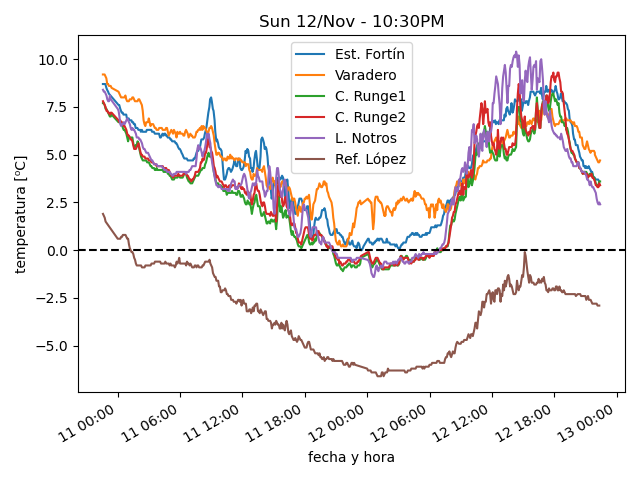
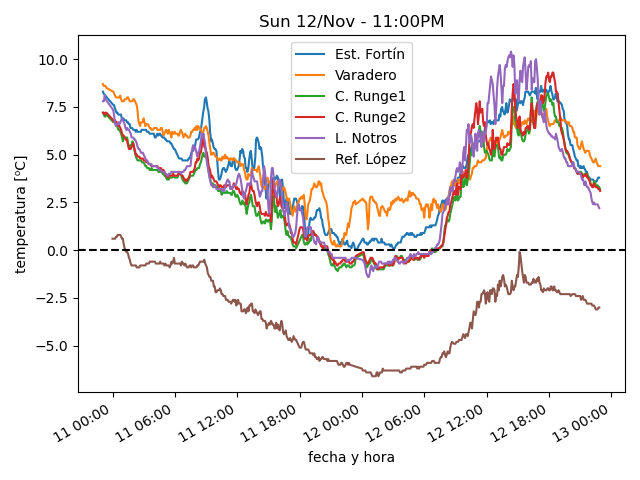
actualiza datos

diff --git a/estaciones/estacion6.html b/estaciones/estacion6.html
@@ -18,32 +18,32 @@
     </tr>
     <tr>
      <td class="stats_data">
-      10:20PM
+      10:50PM
      </td>
     </tr>
     <tr>
      <td class="stats_data">
-      -2.9⁰C
+      -3.0⁰C
      </td>
     </tr>
     <tr>
      <td class="stats_data">
-      -4.3⁰C
+      -4.6⁰C
      </td>
     </tr>
     <tr>
      <td class="stats_data">
-      90.0%
+      89.0%
      </td>
     </tr>
     <tr>
      <td class="stats_data">
-      1023.84hPa
+      1023.71hPa
      </td>
     </tr>
     <tr>
      <td class="stats_data">
-      3.2/12.9 km/hr SE
+      6.4/16.1 km/hr ESE
      </td>
     </tr>
     <tr>
@@ -58,7 +58,7 @@
     </tr>
     <tr>
      <td class="stats_data">
-      902.0 W/m²
+      900.0 W/m²
      </td>
     </tr>
    </tbody>

diff --git a/estaciones/estacion4.html b/estaciones/estacion4.html
@@ -18,32 +18,32 @@
     </tr>
     <tr>
      <td class="stats_data">
-      10:24PM
+      10:54PM
      </td>
     </tr>
     <tr>
      <td class="stats_data">
-      3.4⁰C
+      3.1⁰C
      </td>
     </tr>
     <tr>
      <td class="stats_data">
-      -2.0⁰C
+      -2.5⁰C
      </td>
     </tr>
     <tr>
      <td class="stats_data">
-      67.8%
+      67.2%
      </td>
     </tr>
     <tr>
      <td class="stats_data">
-      1018.22hPa
+      1018.02hPa
      </td>
     </tr>
     <tr>
      <td class="stats_data">
-      1.1/2.1 km/hr SSE
+      1.8/3.0 km/hr SSW
      </td>
     </tr>
     <tr>

diff --git a/estaciones/estacion2.html b/estaciones/estacion2.html
@@ -18,32 +18,32 @@
     </tr>
     <tr>
      <td class="stats_data">
-      10:24PM
+      10:54PM
      </td>
     </tr>
     <tr>
      <td class="stats_data">
-      4.7⁰C
+      4.4⁰C
      </td>
     </tr>
     <tr>
      <td class="stats_data">
-      -0.6⁰C
+      -0.4⁰C
      </td>
     </tr>
     <tr>
      <td class="stats_data">
-      68.6%
+      70.9%
      </td>
     </tr>
     <tr>
      <td class="stats_data">
-      1024.11hPa
+      1024.21hPa
      </td>
     </tr>
     <tr>
      <td class="stats_data">
-      12.6/18.2 km/hr W
+      4.8/7.4 km/hr W
      </td>
     </tr>
     <tr>

diff --git a/estaciones/estacion3.html b/estaciones/estacion3.html
@@ -18,32 +18,32 @@
     </tr>
     <tr>
      <td class="stats_data">
-      10:24PM
+      10:54PM
      </td>
     </tr>
     <tr>
      <td class="stats_data">
-      3.6⁰C
+      3.2⁰C
      </td>
     </tr>
     <tr>
      <td class="stats_data">
-      -1.2⁰C
+      -1.4⁰C
      </td>
     </tr>
     <tr>
      <td class="stats_data">
-      71.4%
+      71.8%
      </td>
     </tr>
     <tr>
      <td class="stats_data">
-      1009.52hPa
+      1009.21hPa
      </td>
     </tr>
     <tr>
      <td class="stats_data">
-      4.8/6.4 km/hr W
+      5.4/8.5 km/hr WSW
      </td>
     </tr>
     <tr>

diff --git a/estaciones/estacion1.html b/estaciones/estacion1.html
@@ -18,12 +18,12 @@
     </tr>
     <tr>
      <td class="stats_data">
-      10:19PM
+      10:49PM
      </td>
     </tr>
     <tr>
      <td class="stats_data">
-      3.6⁰C
+      3.8⁰C
      </td>
     </tr>
     <tr>
@@ -33,7 +33,7 @@
     </tr>
     <tr>
      <td class="stats_data">
-      66.0%
+      65.0%
      </td>
     </tr>
     <tr>
@@ -43,7 +43,7 @@
     </tr>
     <tr>
      <td class="stats_data">
-      6.3/17.2 km/hr SW
+      5.8/11.3 km/hr W
      </td>
     </tr>
     <tr>

diff --git a/estaciones/estacion5.html b/estaciones/estacion5.html
@@ -18,17 +18,17 @@
     </tr>
     <tr>
      <td class="stats_data">
-      10:25PM
+      10:50PM
      </td>
     </tr>
     <tr>
      <td class="stats_data">
-      2.4⁰C
+      2.2⁰C
      </td>
     </tr>
     <tr>
      <td class="stats_data">
-      -1.0⁰C
+      -1.2⁰C
      </td>
     </tr>
     <tr>
@@ -38,7 +38,7 @@
     </tr>
     <tr>
      <td class="stats_data">
-      1022.99hPa
+      1023.03hPa
      </td>
     </tr>
     <tr>
